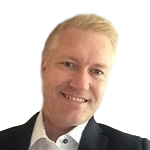
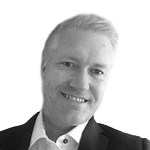
New style

diff --git a/index.html b/index.html
@@ -209,7 +209,7 @@
 		<div class="row stylish-panel">
 		  <div class="col-sm-6 about">
 			<div>
-			  <img src="img/geir_bw.png" alt="Geir Torsteinsen" class="img img-thumbnail">
+			  <img src="img/geir.png" alt="Geir Torsteinsen" class="img img-thumbnail">
 			  <p class="color">
                   Geir Torsteinsen
                   <br/>
